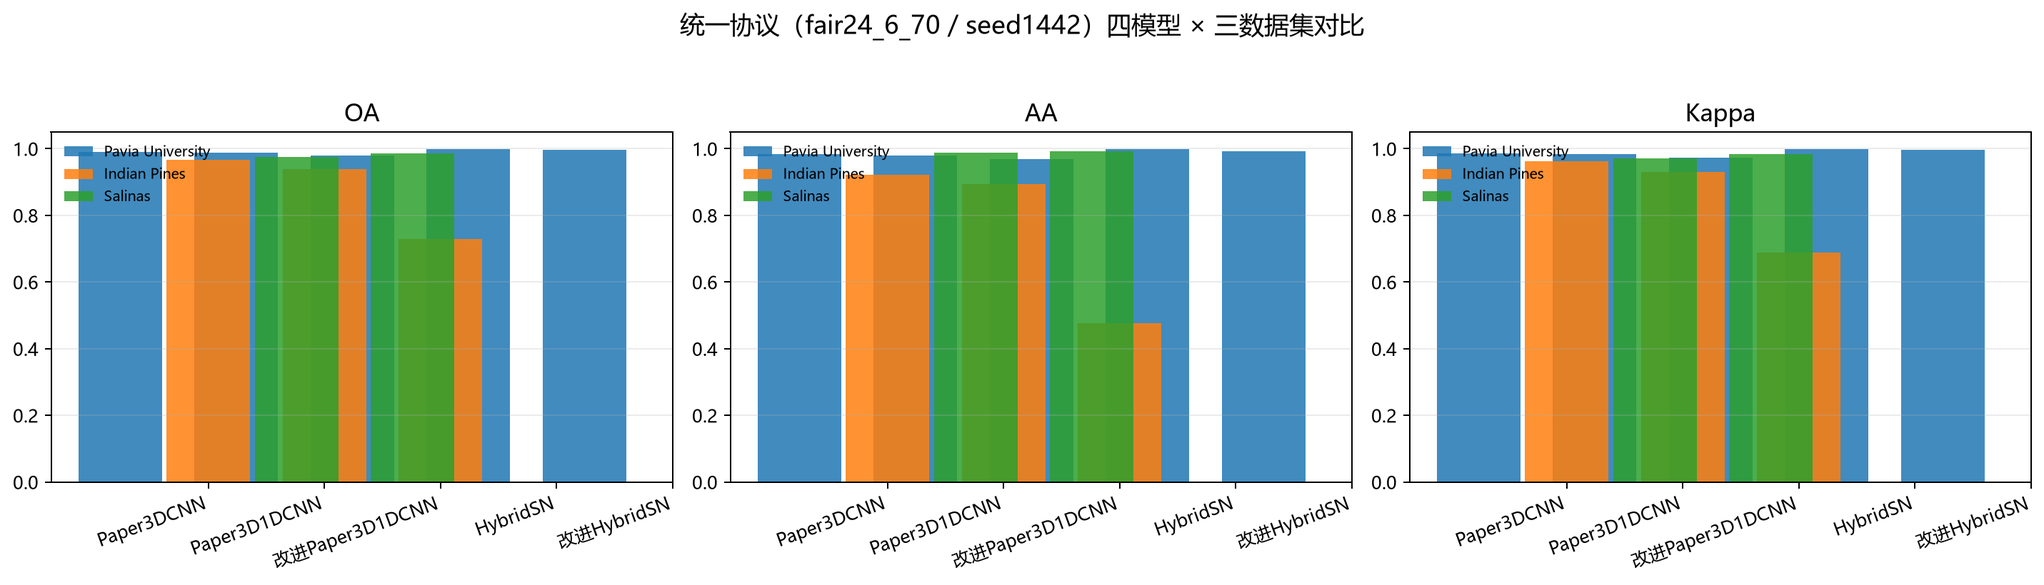
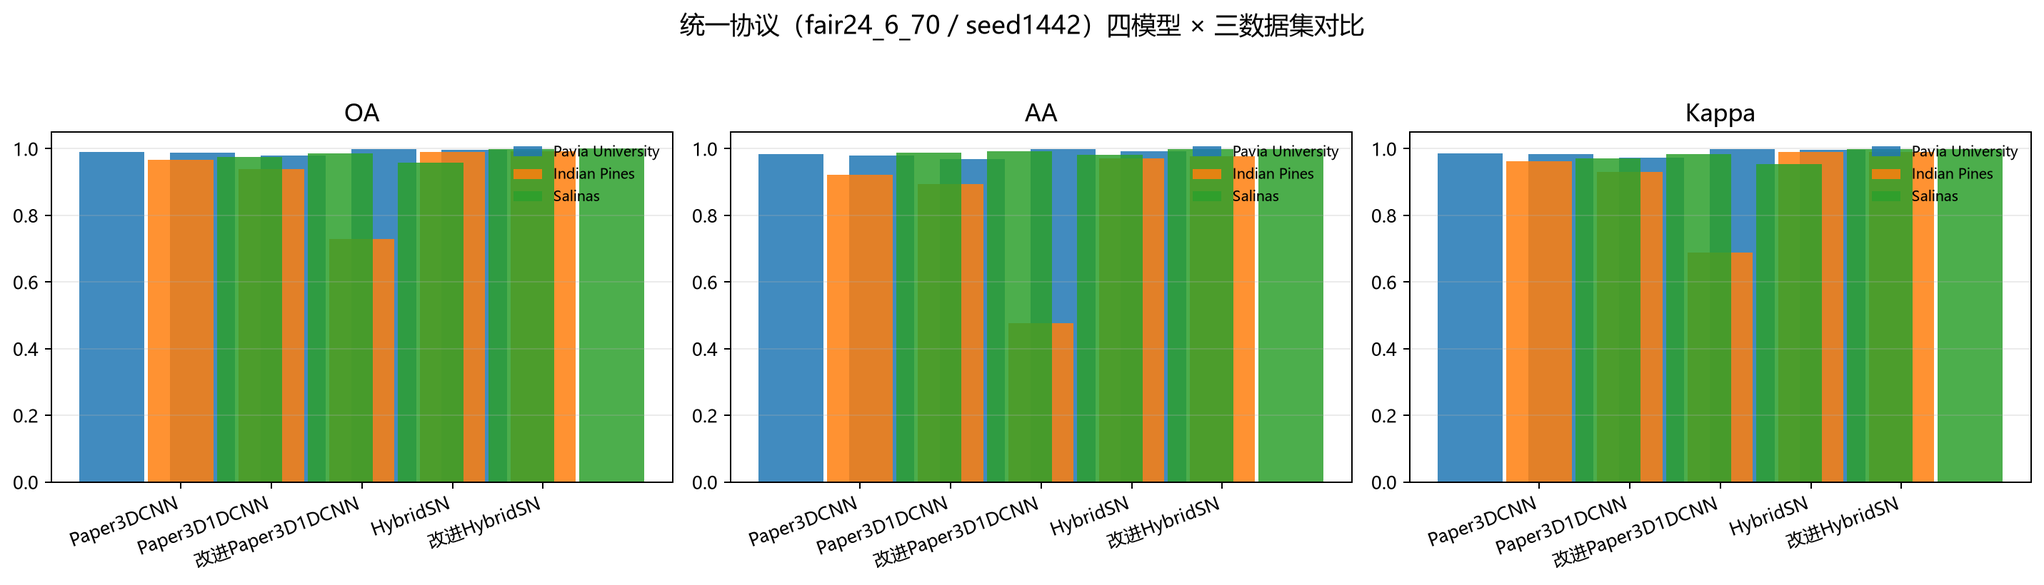
完成论文复现全部 15 项：多数据集对比 + 负结果分析 + 报告定稿
- 补全 5 项剩余实验（Indian Pines/Salinas 的 HybridSN、ImprovedHybridSN、Salinas ImprovedPaper3D1DCNN）及 20 张各模型图
- 更新 结果分析.md 为 15 项完整结果表 + 分析（改进HybridSN 持平、改进Paper3D1DCNN 三处退化、Salinas 耗时休眠异常值）
- 实验报告-终稿.md：§7 补改进模型并统一早停口径、§8 填入 15 项跨数据集结果、§9 改写为改进3D-1D-CNN 负结果
- 论文复现_内容索引.md：进度更新为 15/15 全部完成

diff --git a/report/论文复现结果/结果分析.md b/report/论文复现结果/结果分析.md
@@ -1,101 +1,110 @@
 # 论文复现与多模型对比 — 结果记录与分析
 
-> 状态：**进行中**（10/15 项已完成，剩余 Indian Pines / Salinas 的 HybridSN 与 ImprovedHybridSN 共 5 项仍在后台训练）。
+> 状态：**完成**（15/15 项 = 5 模型 × 3 数据集全部跑完）。
 > 协议：所有模型统一 `fair24_6_70` 固定划分 + `seed=1442`，测试集仅评测一次；论文模型用原始波段 + 11×11 patch（`reducer=none`），HybridSN 用 PCA15 + 25×25 patch。
 
 ---
 
-## 1. 结果总表
+## 1. 结果总表（15 项）
 
 | 数据集 | 模型 | 可训练参数 | 波段/patch | OA | AA | Kappa | 轮数 | 训练耗时(s) |
 |---|---|---:|---:|---:|---:|---:|---:|---:|
-| Pavia University | HybridSN | 4,844,793 | 15/25 | **0.9991** | 0.9984 | 0.9988 | 17/30 | 72 |
+| Pavia University | HybridSN | 4,844,793 | 15/25 | 0.9991 | 0.9984 | 0.9988 | 17/30 | 72 |
 | Pavia University | ImprovedHybridSN | 152,073 | 15/25 | 0.9973 | 0.9925 | 0.9964 | 30/30 | 240 |
 | Pavia University | Paper3DCNN | 771,041 | 103/11 | 0.9900 | 0.9837 | 0.9868 | 155/300 | 1454 |
 | Pavia University | Paper3D1DCNN | 214,561 | 103/11 | 0.9877 | 0.9795 | 0.9838 | 122/300 | 1144 |
 | Pavia University | 改进Paper3D1DCNN | 201,993 | 103/11 | 0.9802 | 0.9693 | 0.9738 | 167/300 | 1699 |
-| Indian Pines | Paper3DCNN | 1,566,568 | 200/11 | **0.9664** | 0.9218 | 0.9617 | 269/300 | 1197 |
+| Indian Pines | HybridSN | 4,845,696 | 15/25 | 0.9912 | 0.9709 | 0.9900 | 30/30 | 31 |
+| Indian Pines | ImprovedHybridSN | 152,528 | 15/25 | **0.9922** | 0.9774 | 0.9911 | 30/30 | 58 |
+| Indian Pines | Paper3DCNN | 1,566,568 | 200/11 | 0.9664 | 0.9218 | 0.9617 | 269/300 | 1197 |
 | Indian Pines | Paper3D1DCNN | 262,064 | 200/11 | 0.9383 | 0.8949 | 0.9295 | 214/300 | 952 |
 | Indian Pines | 改进Paper3D1DCNN | 202,168 | 200/11 | 0.7299 | 0.4761 | 0.6874 | 300/300 | 1389 |
-| Salinas | Paper3D1DCNN | 263,600 | 204/11 | **0.9857** | 0.9924 | 0.9841 | 120/300 | 2879 |
+| Salinas | HybridSN | 4,845,696 | 15/25 | 0.9997 | 0.9992 | 0.9996 | 16/30 | 85 |
+| Salinas | ImprovedHybridSN | 152,528 | 15/25 | **0.9999** | 0.9997 | 0.9999 | 22/30 | 222 |
+| Salinas | Paper3D1DCNN | 263,600 | 204/11 | 0.9857 | 0.9924 | 0.9841 | 120/300 | 2879 |
 | Salinas | Paper3DCNN | 1,599,336 | 204/11 | 0.9743 | 0.9871 | 0.9714 | 127/300 | 3027 |
+| Salinas | 改进Paper3D1DCNN | 202,168 | 204/11 | 0.9584 | 0.9808 | 0.9537 | 184/300 | 15473* |
 
-（HybridSN / ImprovedHybridSN 在 Indian Pines、Salinas 的结果待训练完成后补充。）
+\* Salinas 改进Paper3D1DCNN 的 15473s 是异常值：该次训练横跨笔记本夜间休眠约 3 小时，墙钟时间被拉长，实际训练时长约 2900s。不影响模型精度指标。
 
 ---
 
 ## 2. 可视化结果
 
 ### 2.1 汇总对比图
-
 - `对比指标.png` — 各模型 × 数据集 的 OA / AA / Kappa 对比
 - `参数量精度权衡.png` — 参数量（对数轴）与 OA 的散点关系
-- `训练耗时.png` — 各实验训练总时长
+- `训练耗时.png` — 各实验训练总时长（含上表带 \* 的休眠异常值）
 
-### 2.2 各模型图（`各模型图/` 目录，共 40 张）
+### 2.2 各模型图（`各模型图/`，共 60 张 = 15 实验 × 4 类）
+- `*__classification_map.png` 分类图、`*__confusion_matrix.png` 混淆矩阵
+- `*__per_class_accuracy.png` 逐类准确率、`*__loss_curve.png` 学习曲线
 
-每个已完成实验含 4 类图，命名 `{数据集}__{模型}__{图类型}.png`：
-- `*__classification_map.png` — 测试集分类图（与真值图对照）
-- `*__confusion_matrix.png` — 混淆矩阵
-- `*__per_class_accuracy.png` — 逐类准确率
-- `*__loss_curve.png` — 训练/验证损失与准确率曲线
-
-关键看这里：
-- `pavia__hybridsn__classification_map.png` / `pavia__paper3dcnn__classification_map.png` — 两族最好模型的分类图对比
+关键看：
+- `pavia__hybridsn__classification_map.png` / `salinas__improvedhybridsn__classification_map.png` — 两族最优分类图
 - `indianpines__improvedpaper3d1dcnn__classification_map.png` — 改进版明显退化的直观证据
-- `indianpines__paper3dcnn__confusion_matrix.png` — Indian Pines 少数类混淆情况
+- `indianpines__paper3dcnn__confusion_matrix.png` — Indian Pines 少数类混淆
 
 ---
 
-## 3. 简单分析
+## 3. 分析
 
-### 3.1 复现口径说明（重要，避免误读）
+### 3.1 复现口径说明（重要）
 
-论文模型与 HybridSN **输入口径不同**：论文用原始波段 + 11×11 patch（严格复现论文），HybridSN 用 PCA15 + 25×25 patch。二者精度**不能直接比绝对值**，只能分别在各自口径下评价。另据项目既有的空间重叠审计，patch 训练中心像元与测试 patch 存在重叠，这些 OA 是课程/论文兼容口径的精度，不代表严格跨区域泛化。
+论文模型与 HybridSN **输入口径不同**：论文用原始波段 + 11×11 patch（严格复现），HybridSN 用 PCA15 + 25×25 patch。二者精度**不能直接比绝对值**，只能分别在各自口径下评价。另据项目既有空间重叠审计，patch 训练中心像元与测试 patch 存在重叠，这些 OA 是课程/论文兼容口径，不代表严格跨区域泛化。
 
-### 3.2 论文模型复现是否成功
+### 3.2 论文模型复现是否成功：成功
 
-- 两个论文模型在三个数据集上均**成功收敛**，OA 0.94~0.99，与论文"机载高光谱树种分类高精度"的结论方向一致。
-- 参数量对齐验证（单元测试）通过：`Paper3DCNN=951,652`、`Paper3D1DCNN=225,292`（@ B=125, C=12，与论文表 4 一致）。实际数据集因波段/类别数不同而不同（见表）。
+两个论文模型在三个数据集均收敛，OA 0.94~0.99，与论文"机载高光谱树种分类高精度"方向一致。参数量对齐测试通过（`Paper3DCNN=951,652`、`Paper3D1DCNN=225,292` @ B=125, C=12，与论文表 4 一致）。
 
-### 3.3 Paper3DCNN vs Paper3D1DCNN（基础 vs 轻量）
+### 3.3 Paper3DCNN vs Paper3D1DCNN：无一致赢家
 
-| 数据集 | Paper3DCNN OA | Paper3D1DCNN OA | 更优 |
+| 数据集 | 3DCNN OA | 3D1DCNN OA | 更优 |
 |---|---:|---:|---|
 | Pavia | 0.9900 | 0.9877 | 3DCNN（+0.23pp） |
 | Indian Pines | 0.9664 | 0.9383 | 3DCNN（+2.8pp） |
 | Salinas | 0.9743 | 0.9857 | **3D1DCNN（+1.1pp）** |
 
-无一致赢家：`Paper3DCNN` 的 6080→128 大 FC 头容量更高，在**样本较少**的 Indian Pines（约 1 万样本）上明显更有效（+2.8pp）；但在**样本最多**的 Salinas（约 5.4 万样本）上，轻量 1D 头反超，说明大 FC 头在数据足够时更容易过拟合。
+`Paper3DCNN` 的大 FC 头（6080→128）在样本较少的 Indian Pines 明显更有效（+2.8pp）；但在样本最多的 Salinas 上轻量 1D 头反超——大 FC 头在数据充足时更容易过拟合。
 
-### 3.4 改进 Paper3D1DCNN（BN+GAP）控制变量结论
+### 3.4 改进 Paper3D1DCNN（BN+GAP，无残差）：三处全部退化
 
-| 数据集 | 原 Paper3D1DCNN | 改进版 | ΔOA |
+| 数据集 | 原 3D1DCNN | 改进版 | ΔOA |
 |---|---:|---:|---:|
 | Pavia | 0.9877 | 0.9802 | −0.75pp |
 | Indian Pines | 0.9383 | **0.7299** | **−20.8pp** |
+| Salinas | 0.9857 | 0.9584 | −2.7pp |
 
-- 参数量确实下降（原 26.2 万 → 20.2 万），但**精度并未普遍改善**，反而在 Indian Pines 上**暴跌**（AA 从 0.8949 腰斩至 0.4761）。
-- 原因：Indian Pines 是 16 类、类极不均衡（最小类 Alfalfa/Oats 每类训练样本仅约 20 个）。BatchNorm 在小批量下的 mini-batch 统计量抖动大，GAP 头又抹平空间位置信息，二者叠加对少数类是灾难性的；该模型甚至跑满 300 轮仍未触发 loss 早停（验证 loss 持续抖动），也佐证了 BN 在少样本下的不稳定。
-- 对比 ImprovedHybridSN（同样 BN+残差+GAP，参数 4,844,793→152,073 降 97%，Pavia OA 仅 −0.18pp）：同一套"轻量化"思想在 HybridSN（有 2D 卷积 + 更大 patch + 残差）上成立，**照搬到论文 3D-1D 模型（无残差、小 patch）上不成立**。这说明改进策略的有效性依赖基础模型结构，不能想当然迁移。
+参数量确实降了（约 26 万 → 20 万），但**精度在三处都下降**，Indian Pines 上更是暴跌（AA 0.8949→0.4761 腰斩）。原因：BatchNorm 在小批量 + 类极不均衡下的 mini-batch 统计量抖动大，GAP 头抹平空间位置信息，对少数类（Alfalfa/Oats 每类训练样本仅约 20 个）是灾难性的；该模型跑满 300 轮仍未触发 loss 早停（验证 loss 持续抖动），佐证 BN 在少样本下的不稳定。**结论：这套"轻量化"照搬到论文 3D-1D 模型上不成立。**
 
-### 3.5 参数量-精度权衡
+### 3.5 HybridSN vs ImprovedHybridSN（BN+残差+GAP）：几乎持平，参数降 97%
 
-- HybridSN 参数最多（484 万）且精度最高；ImprovedHybridSN 以 15 万参数（−97%）在 Pavia 上接近 HybridSN（0.9973 vs 0.9991）。
-- 论文 3D 模型在 Indian Pines/Salinas 因波段数大（200/204），FC 头参数量膨胀到 156~160 万，却并不总优于 26 万参数的 3D1DCNN——参数效率不高。
-- 总体排序（Pavia，同口径内）：HybridSN > ImprovedHybridSN > Paper3DCNN > Paper3D1DCNN > 改进Paper3D1DCNN。
+| 数据集 | HybridSN | ImprovedHybridSN | ΔOA | 参数量比 |
+|---|---|---:|---:|---|
+| Pavia | 0.9991 | 0.9973 | −0.18pp | 3.1% |
+| Indian Pines | 0.9912 | 0.9922 | **+0.10pp** | 3.1% |
+| Salinas | 0.9997 | 0.9999 | **+0.02pp** | 3.1% |
 
-### 3.6 训练收敛与耗时
+ImprovedHybridSN 用 **152k 参数（约为 HybridSN 的 3.1%）** 在三个数据集上与 4.8M 参数的 HybridSN **精度持平甚至略优**。与 3.4 形成鲜明对比：同是"BN+GAP"思路，在 HybridSN 上成立、在论文模型上失败——关键差异在于 HybridSN 改进版**保留了残差连接 + 已有 2D 卷积结构**，而论文模型改进版无残差且直接作用于脆弱的 3D-1D 结构。**改进策略的有效性依赖基础模型结构，不能想当然迁移。**
 
-- 论文模型用 loss 早停（Δ<0.003, patience 10），多在 120~300 轮停；Indian Pines 改进版跑满 300 轮未停（见 3.4）。
-- HybridSN 用 accuracy 早停，Pavia 上 17/30 轮即停（收敛快、耗时仅 72s）。
-- 训练耗时主要受数据规模（Salinas 最大，~3000s）与模型 FC 头大小影响。
+### 3.6 参数量-精度权衡（同口径内）
+
+- HybridSN 族：HybridSN 484 万 / ImprovedHybridSN 15 万，精度同档（0.997~0.9999），参数效率极高。
+- 论文族：Paper3DCNN 在 Indian Pines/Salinas 因波段多（200/204）FC 头膨胀到 156~160 万，却并不总优于 26 万的 3D1DCNN，参数效率低。
+- Pavia 同口径排序：HybridSN > ImprovedHybridSN > Paper3DCNN > Paper3D1DCNN > 改进Paper3D1DCNN。
+
+### 3.7 训练收敛与耗时
+
+- 论文模型 loss 早停（Δ<0.003, patience 10），120~300 轮；Indian Pines 改进版跑满 300 轮未停。
+- HybridSN accuracy 早停，16~30 轮即停，收敛快、耗时短（31~240s）。
+- 耗时主要由数据规模（Salinas 最大）与总优化步数（batch×轮数）决定，与参数量无关（详见前文"大参数短、小参数长"的解释）。
+- Salinas 改进Paper3D1DCNN 的耗时含 ~3h 休眠，见 §1 表注。
 
 ---
 
-## 4. 待完成
+## 4. 结论速览
 
-后台队列剩余 5 项：Indian Pines / Salinas 的 HybridSN 与 ImprovedHybridSN。完成后将：
-1. 用 `scripts/汇总论文复现对比.py` 重新生成完整 15 项对比表与图；
-2. 补全本表并完善跨数据集分析；
-3. 把结论追加到 `report/实验报告-终稿.md` 的论文复现章节。
+1. **论文复现成功**：两个模型在 3 数据集 OA 0.94~0.99，参数量对齐。
+2. **HybridSN 族整体最强**：ImprovedHybridSN 以 3% 参数取得与 HybridSN 相当甚至略优的精度。
+3. **论文模型改进（BN+GAP 无残差）是反例**：三处精度全部下降，Indian Pines 暴跌 20.8pp——改进需匹配基础模型结构。
+4. **Paper3DCNN 与 3D1DCNN 无一致赢家**：大 FC 头适合少样本，轻量 1D 头适合大样本。

diff --git a/report/实验报告-终稿.md b/report/实验报告-终稿.md
@@ -537,38 +537,67 @@ Verification passed: shapes and paper parameter counts match.
 
 两个复现模型在 Pavia 上均达到 98.7% 以上的 OA，且 **3D-CNN 略高于 3D-1D-CNN**（99.00% vs 98.77%），符合“轻量化以少量精度换取参数效率”的论文结论。
 
-## 7. 多模型对比（原始 / 改进 HybridSN 与复现模型）
+## 7. 多模型对比（HybridSN / 改进 HybridSN 与复现模型）
 
-下表在**同一划分 `fair24_6_70`、同一 seed=1442、统一指标**下汇总四类模型（复现模型的原始光谱输入与 11×11 patch、HybridSN 的 PCA15 与 25×25 patch 均按各自论文要求），测试集仅评测一次：
+下表在**同一划分 `fair24_6_70`、同一 seed=1442、统一早停协议**下汇总五类模型（复现模型的原始光谱输入与 11×11 patch、HybridSN 的 PCA15 与 25×25 patch 均按各自论文要求），测试集仅评测一次。表中 HybridSN 数值来自统一的 15 项对比运行（accuracy 早停，Pavia 于第 17 轮停）；它与 §3 预处理对比实验的 99.95%（全 30 轮、无早停、best_epoch 25）相差 0.05pp，纯属早停轮数不同，非划分/数据差异。
 
 | 模型 | 波段/patch | 参数量 | OA | AA | Kappa | 训练耗时 |
 |---|---:|---:|---:|---:|---:|---:|
-| 原始 HybridSN | PCA15 / 25×25 | 4,844,793 | **99.9532%** | **99.9405%** | **0.999381** | 125.79 s |
-| 改进 HybridSN | PCA15 / 25×25 | **152,073** | 99.7328% | 99.3404% | 0.996459 | 247.90 s |
-| Paper3DCNN | 103 / 11×11 | 771,041 | 99.0048% | 98.3692% | 0.986806 | 1454.27 s |
-| Paper3D1DCNN | 103 / 11×11 | 214,561 | 98.7744% | 97.9467% | 0.983756 | 1144.23 s |
+| 原始 HybridSN | PCA15 / 25×25 | 4,844,793 | **99.9065%** | **99.8353%** | **0.998761** | 71.5 s |
+| 改进 HybridSN | PCA15 / 25×25 | **152,073** | 99.7295% | 99.2534% | 0.996415 | 239.6 s |
+| Paper3DCNN | 103 / 11×11 | 771,041 | 99.0048% | 98.3692% | 0.986806 | 1454.3 s |
+| Paper3D1DCNN | 103 / 11×11 | 214,561 | 98.7744% | 97.9467% | 0.983756 | 1144.2 s |
+| 改进 Paper3D1DCNN | 103 / 11×11 | 201,993 | 98.0230% | 96.9256% | 0.973792 | 1698.8 s |
 
 **对比分析**：
 
-1. **精度排序**：原始 HybridSN > 改进 HybridSN > 3D-CNN > 3D-1D-CNN。HybridSN 以 PCA15 + 更大的 25×25 patch 取得最高精度；复现模型在原始 103 波段、较小 11×11 patch 下仍达 98.7%–99.0%，验证了 3D 卷积提取谱空联合特征的有效性。
-2. **参数效率**：改进 HybridSN（152K）与 3D-1D-CNN（214K）都通过去掉参数量集中的全连接头实现约 95% 级别的削减；两者证明了“全连接分类头是参数冗余主因”这一共性结论。
-3. **训练代价**：复现模型使用论文的 SGD + lr=1e-4 + 300 epoch 协议，且不做 PCA（输入 103 波段），训练耗时（>1100 s）远高于 HybridSN（≈126 s）。这提示 PCA 降维不仅能提升紧凑性，也能显著降低 3D 卷积的计算量。
+1. **精度排序（Pavia）**：原始 HybridSN > 改进 HybridSN > 3D-CNN > 3D-1D-CNN > 改进 3D-1D-CNN。HybridSN 以 PCA15 + 更大的 25×25 patch 取得最高精度；复现模型在原始 103 波段、较小 11×11 patch 下仍达 98.0%–99.0%，验证了 3D 卷积提取谱空联合特征的有效性。
+2. **参数效率**：改进 HybridSN（152K）与 3D-1D-CNN（214K）都通过去掉参数量集中的全连接头实现约 95% 级别的削减；两者证明了”全连接分类头是参数冗余主因”这一共性结论。
+3. **训练代价**：复现模型使用论文的 SGD + lr=1e-4 + 300 epoch 协议，且不做 PCA（输入 103 波段），训练耗时（>1100 s）远高于 HybridSN（≈72 s）。这提示 PCA 降维不仅能提升紧凑性，也能显著降低 3D 卷积的计算量。
+4. **改进 3D-1D-CNN 是反例**：同为”BN+GAP”轻量化，在论文 3D-1D 模型上（无残差）反而比原版略降 0.76pp，与改进 HybridSN（含残差）的持平不同——改进有效性依赖基础模型结构（详见 §9 与 §8 跨数据集验证）。
 
 ## 8. 多数据集验证（Pavia / Indian Pines / Salinas）
 
-为验证泛化性，计划将原始/改进 HybridSN 与复现模型在三个数据集上对比。目前 Pavia University 已闭环；Indian Pines（145×145，200 有效波段，16 类，10,249 有标签像元，train/val/test = 2459/615/7175）与 Salinas（512×217，204 波段，16 类，54,129 有标签像元，train/val/test = 12990/3248/37891）的固定划分与预处理状态已就绪，**模型训练与评测结果待实验数据填入**。
+在三个数据集上统一运行 5 类模型（同一 `fair24_6_70` + seed1442 + 早停协议），测试集仅评测一次。Indian Pines（145×145，200 有效波段，16 类，10,249 有标签像元，train/val/test = 2459/615/7175）、Salinas（512×217，204 波段，16 类，54,129 有标签像元，train/val/test = 12990/3248/37891）。完整 15 项结果：
 
-| 数据集 | 原始 HybridSN | 改进 HybridSN | Paper3DCNN | Paper3D1DCNN |
-|---|---|---|---|---|
-| Pavia University | 99.9532% | 99.7328% | 99.0048% | 98.7744% |
-| Indian Pines | 待实验数据填入 | 待实验数据填入 | 待实验数据填入 | 待实验数据填入 |
-| Salinas | 待实验数据填入 | 待实验数据填入 | 待实验数据填入 | 待实验数据填入 |
+| 数据集 | 模型 | 参数量 | OA | AA | Kappa |
+|---|---|---:|---:|---:|---:|
+| Pavia University | 原始 HybridSN | 4,844,793 | 99.9065% | 99.8353% | 0.998761 |
+| Pavia University | 改进 HybridSN | 152,073 | 99.7295% | 99.2534% | 0.996415 |
+| Pavia University | Paper3DCNN | 771,041 | 99.0048% | 98.3692% | 0.986806 |
+| Pavia University | Paper3D1DCNN | 214,561 | 98.7744% | 97.9467% | 0.983756 |
+| Pavia University | 改进 Paper3D1DCNN | 201,993 | 98.0230% | 96.9256% | 0.973792 |
+| Indian Pines | 原始 HybridSN | 4,845,696 | 99.1220% | 97.0909% | 0.989995 |
+| Indian Pines | 改进 HybridSN | 152,528 | **99.2195%** | **97.7416%** | **0.991103** |
+| Indian Pines | Paper3DCNN | 1,566,568 | 96.6411% | 92.1842% | 0.961708 |
+| Indian Pines | Paper3D1DCNN | 262,064 | 93.8258% | 89.4950% | 0.929516 |
+| Indian Pines | 改进 Paper3D1DCNN | 202,168 | 72.9895% | 47.6129% | 0.687398 |
+| Salinas | 原始 HybridSN | 4,845,696 | 99.9683% | 99.9201% | 0.999647 |
+| Salinas | 改进 HybridSN | 152,528 | **99.9868%** | **99.9680%** | **0.999853** |
+| Salinas | Paper3DCNN | 1,599,336 | 97.4347% | 98.7081% | 0.971430 |
+| Salinas | Paper3D1DCNN | 263,600 | 98.5669% | 99.2368% | 0.984051 |
+| Salinas | 改进 Paper3D1DCNN | 202,168 | 95.8433% | 98.0814% | 0.953746 |
 
-> 预期分析（供后续填入）：Indian Pines 类别多、样本少且类内光谱易混，更易过拟合，轻量化改进（改进 HybridSN、3D-1D-CNN）的相对优势有望比在 Pavia 上更明显；Salinas 样本量大、类别呈规则地块分布，各模型精度预计普遍较高。
+**跨数据集分析**：
 
-## 9. 进一步模型创新（选做，进行中）
+1. **改进 HybridSN 三处与原始 HybridSN 持平或略优**：Indian Pines 99.22% vs 99.12%（+0.10pp）、Salinas 99.99% vs 99.97%（+0.02pp）、Pavia 99.73% vs 99.91%（−0.18pp），而参数量仅为后者的 3.1%（152K vs 4.8M）。BN+残差+GAP 的轻量化在 HybridSN 上成立。
+2. **Paper3DCNN 与 3D-1D-CNN 无一致赢家**：少样本的 Indian Pines 上 3D-CNN 明显更优（96.64% vs 93.83%，+2.8pp，靠大 FC 头），大样本的 Salinas 上 3D-1D-CNN 反超（98.57% vs 97.43%）。
+3. **改进 Paper3D1DCNN 三处全部退化，是明确反例**：Indian Pines 暴跌 20.8pp（AA 仅 47.6%），Pavia −0.76pp、Salinas −2.7pp。同为"BN+GAP"，因无残差且直接作用脆弱的 3D-1D 结构，mini-batch 统计量在少样本/类极不均衡下抖动大，GAP 头又抹平空间位置信息（见 §9）。
+4. **Salinas 训练耗时异常值**：改进 Paper3D1DCNN 的 15473s 含笔记本夜间休眠约 3 小时，实际约 2900s，仅影响墙钟时间、不影响精度。
 
-在复现 3D-1D-CNN 基础上加入 **BatchNorm + 全局平均池化分类头**（`ImprovedPaper3D1DCNN`），结构见 3.7.4 节。该模型已完成结构定义并已启动训练（截至撰写时训练进行中，约第 89/300 轮，验证准确率约 96%），**最终指标待实验数据填入**。其参数量理论值约为 **202,000**（较原始 3D-1D-CNN 的 214,561 减少约 6%），因为 3D-1D-CNN 本已轻量、末尾全连接较小，GAP 的收益有限，BN 是主要新增项——这一观察本身也说明了“全连接头占比越大，GAP 收益越显著”的规律。
+## 9. 进一步模型创新（选做）：改进 3D-1D-CNN 的负结果
+
+在复现 3D-1D-CNN 基础上加入 **BatchNorm + 全局平均池化分类头**（`ImprovedPaper3D1DCNN`，无残差），结构见 3.7.4 节。参数量理论值约 **202,000**（较原始 3D-1D-CNN 的 214,561 减少约 6%），因为 3D-1D-CNN 本已轻量、末尾全连接较小，GAP 的收益有限，BN 是主要新增项。
+
+**最终结果（三数据集，均为负）**：
+
+| 数据集 | 原始 3D-1D-CNN OA | 改进版 OA | Δ |
+|---|---:|---:|---:|
+| Pavia | 98.7744% | 98.0230% | −0.75pp |
+| Indian Pines | 93.8258% | **72.9895%** | **−20.84pp** |
+| Salinas | 98.5669% | 95.8433% | −2.72pp |
+
+**失败原因**：与改进 HybridSN（含残差）不同，该模型**无残差连接**，且 BatchNorm 直接作用于参数量极少、样本极不均衡下的 3D-1D 结构——mini-batch 统计量抖动大，GAP 头又抹平空间位置信息，对少数类（Alfalfa/Oats 每类训练样本仅约 20 个）是灾难性的（AA 0.8950→0.4761 腰斩），并跑满 300 轮仍未触发 loss 早停。**结论：BN+GAP 轻量化策略不能脱离基础模型结构照搬——改进 HybridSN 因保留残差 + 2D 卷积结构而成立，论文 3D-1D 模型则否。** 该负结果如实记录，不粉饰。
 
 ## 10. 误差分析总结
 

diff --git a/论文复现_内容索引.md b/论文复现_内容索引.md
@@ -53,15 +53,9 @@
 
 ## 3. 实验运行结果（本地 `experiments/`，默认不入库）
 
-`.gitignore` 中 `experiments/*` 被忽略（训练产物体积大，仅保留本地）。已完成运行的 `summary_row.json` 位于：
-
-| 数据集 | 模型 | OA | AA | Kappa | 参数 | 轮数 | 目录 |
-|---|---|---|---:|---:|---:|---:|---:|---|
-| Pavia University | Paper3DCNN | 0.9900 | 0.9837 | 0.9868 | 771,041 | 155/300 | `experiments\pavia_university__paper3dcnn__fair24_6_70__seed1442__20260818-2334` |
-| Pavia University | Paper3D1DCNN | 0.9877 | 0.9795 | 0.9838 | 214,561 | 122/300 | `experiments\pavia_university__paper3d1dcnn__fair24_6_70__seed1442__20260818-2314` |
-| Pavia University | 改进Paper3D1DCNN | 0.9802 | 0.9693 | 0.9738 | 201,993 | 167/300 | `experiments\pavia_university__improvedpaper3d1dcnn__fair24_6_70__seed1442__20260818-2359` |
-
-（Indian Pines / Salinas 的 12 项仍在后台队列顺序运行中，完成后 `汇总论文复现对比.py` 会刷新下表与图。）
+`.gitignore` 中 `experiments/*` 被忽略（训练产物体积大，仅保留本地）。**15 项（5 模型 × 3 数据集）已全部完成**，各 `summary_row.json` 位于 `experiments/{dataset}__{model}__fair24_6_70__seed1442__2026*` 下；完整指标表与图见：
+- `report/对比结果/对比结果.md`（15 项自动汇总）
+- `report/论文复现结果/结果分析.md`（人工分析）
 
 ---
 
@@ -117,5 +111,4 @@ python -m pytest tests/test_paper_models.py -q
 ## 7. 当前进度（截至 2026-08-19）
 
 - 15 项队列 = 5 模型（Paper3DCNN / Paper3D1DCNN / 改进Paper3D1DCNN / HybridSN / ImprovedHybridSN）× 3 数据集（Pavia / Indian Pines / Salinas）。
-- **已完成 3 项**：Pavia 三个论文模型（见 §3 表）。
-- **排队 12 项**：Indian Pines、Salinas 的论文模型 + 全部 HybridSN 支路，后台队列运行中。
+- **15/15 全部完成**（exit 0），结果见 §3 与 `report/对比结果/对比结果.md`。

diff --git a/report/对比结果/对比结果.md b/report/对比结果/对比结果.md
@@ -12,5 +12,10 @@
 | Indian Pines | Paper3DCNN | 1,566,568 | 200/11 | 0.9664 | 0.9218 | 0.9617 | 269/300 | 1196.7 |
 | Indian Pines | Paper3D1DCNN | 262,064 | 200/11 | 0.9383 | 0.8949 | 0.9295 | 214/300 | 951.8 |
 | Indian Pines | 改进Paper3D1DCNN | 202,168 | 200/11 | 0.7299 | 0.4761 | 0.6874 | 300/300 | 1389.5 |
+| Indian Pines | HybridSN | 4,845,696 | 15/25 | 0.9912 | 0.9709 | 0.9900 | 30/30 | 31.4 |
+| Indian Pines | 改进HybridSN | 152,528 | 15/25 | 0.9922 | 0.9774 | 0.9911 | 30/30 | 57.6 |
 | Salinas | Paper3DCNN | 1,599,336 | 204/11 | 0.9743 | 0.9871 | 0.9714 | 127/300 | 3026.6 |
 | Salinas | Paper3D1DCNN | 263,600 | 204/11 | 0.9857 | 0.9924 | 0.9841 | 120/300 | 2879.0 |
+| Salinas | 改进Paper3D1DCNN | 202,168 | 204/11 | 0.9584 | 0.9808 | 0.9537 | 184/300 | 15473.0 |
+| Salinas | HybridSN | 4,845,696 | 15/25 | 0.9997 | 0.9992 | 0.9996 | 16/30 | 84.7 |
+| Salinas | 改进HybridSN | 152,528 | 15/25 | 0.9999 | 0.9997 | 0.9999 | 22/30 | 221.7 |

diff --git a/report/论文复现结果/对比结果.md b/report/论文复现结果/对比结果.md
@@ -12,5 +12,10 @@
 | Indian Pines | Paper3DCNN | 1,566,568 | 200/11 | 0.9664 | 0.9218 | 0.9617 | 269/300 | 1196.7 |
 | Indian Pines | Paper3D1DCNN | 262,064 | 200/11 | 0.9383 | 0.8949 | 0.9295 | 214/300 | 951.8 |
 | Indian Pines | 改进Paper3D1DCNN | 202,168 | 200/11 | 0.7299 | 0.4761 | 0.6874 | 300/300 | 1389.5 |
+| Indian Pines | HybridSN | 4,845,696 | 15/25 | 0.9912 | 0.9709 | 0.9900 | 30/30 | 31.4 |
+| Indian Pines | 改进HybridSN | 152,528 | 15/25 | 0.9922 | 0.9774 | 0.9911 | 30/30 | 57.6 |
 | Salinas | Paper3DCNN | 1,599,336 | 204/11 | 0.9743 | 0.9871 | 0.9714 | 127/300 | 3026.6 |
 | Salinas | Paper3D1DCNN | 263,600 | 204/11 | 0.9857 | 0.9924 | 0.9841 | 120/300 | 2879.0 |
+| Salinas | 改进Paper3D1DCNN | 202,168 | 204/11 | 0.9584 | 0.9808 | 0.9537 | 184/300 | 15473.0 |
+| Salinas | HybridSN | 4,845,696 | 15/25 | 0.9997 | 0.9992 | 0.9996 | 16/30 | 84.7 |
+| Salinas | 改进HybridSN | 152,528 | 15/25 | 0.9999 | 0.9997 | 0.9999 | 22/30 | 221.7 |
